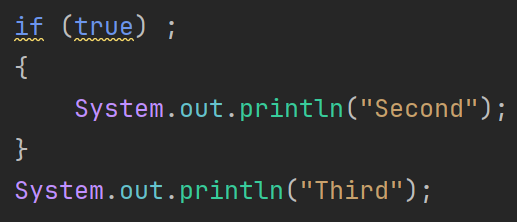
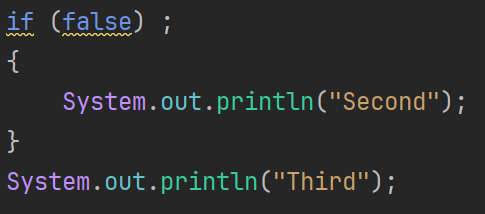
fixes

diff --git a/Articles/Session 3 If statement/003 Whats wrong.md b/Articles/Session 3 If statement/003 Whats wrong.md
@@ -6,14 +6,14 @@ Consider this code snippet:
 
 ```java
 System.out.println("First");
-if (true); 
+if (false); 
 {
     System.out.println("Second");
 }
 System.out.println("Third");
 ```
 
-What do you think the output will be?
+What do you think the output will be? A hint: it's a trick question.
 
 Try running the code in IntelliJ.
 
@@ -22,12 +22,13 @@ Try running the code in IntelliJ.
 The output will be:
 ```
 First
+Second
 Third
 ```
 
 </hint>
 
-And why is the output like this?
+And why is the output like this? Why is `Second` printed? The if-condition is `false`, so the body should not be executed, right?
 
 If I copy the code into IntelliJ, I will see yellow squiggly lines. These indicate a warning. I.e. you _may_ have a problem here.\
 The red lines will prevent your program from running. The yellow lines will not prevent your program from running, but they indicate that you may have a problem in your code.
@@ -36,20 +37,20 @@ What is the problem here? If you hover over the `if` part?
 
 ![wrong](Resources/WhatsWrong.png)
 
-Why does the if-statement have an empty body? Clearl, there is a print-out of "Second" in the code, so it should not be empty.
+Why does the if-statement have an empty body? Clearly, there is a print-out of "Second" in the code, so it should not be empty.
 
-Remember, that you can auto-format your code by pressing <kbd>Ctrl</kbd> + <kbd>Alt</kbd> + <kbd>L</kbd>  in IntelliJ. This will make sure that the code is formatted correctly, and it will also help you see the structure of your code.
+Remember, that you can auto-format your code by pressing <kbd>Ctrl</kbd> + <kbd>Alt</kbd> + <kbd>L</kbd>  in IntelliJ. This will make sure that the code is formatted nicely, and it will also help you see the structure of your code.
 
 Then your code looks like this:
 
 ![wrong2](Resources/FormattedProblem.png)
 
-See that floating `;`? This is the problem. The `;` is used to end a _statement_ in Java, even if that statement is empty and does nothing.\
+See that floating `;` after the `if(..)`? This is the problem. The `;` is used to end a _statement_ in Java, even if that statement is empty and does nothing.\
 So, if I reformat a bit for clarity, your code is actually:
 
 ```java
 System.out.println("First");
-if (true)
+if (false)
     ; 
 
 {
@@ -60,12 +61,12 @@ System.out.println("Third");
 ```
 
 And, because if your if-statement contains a single statement, you _don't_ actually need to explicitly use `{}` to define the body of the if-statement.\
-So, the code is actually equivalent to:
+So, the following code is actually valid. Notice the if has no clear body defined by `{}`:
 
 ```java
 System.out.println("First");
 
-if (true)
+if (false)
     System.out.println("Second");
 
 System.out.println("Third");
@@ -76,7 +77,7 @@ Personally, I never leave out the braces, it invites errors into your code.
 But, in our example, the body (which is not using `{}`) of the if-statement contains just that single empty statement.
 
 ```java
-if (true)
+if (false)
     ; 
 ```
 
